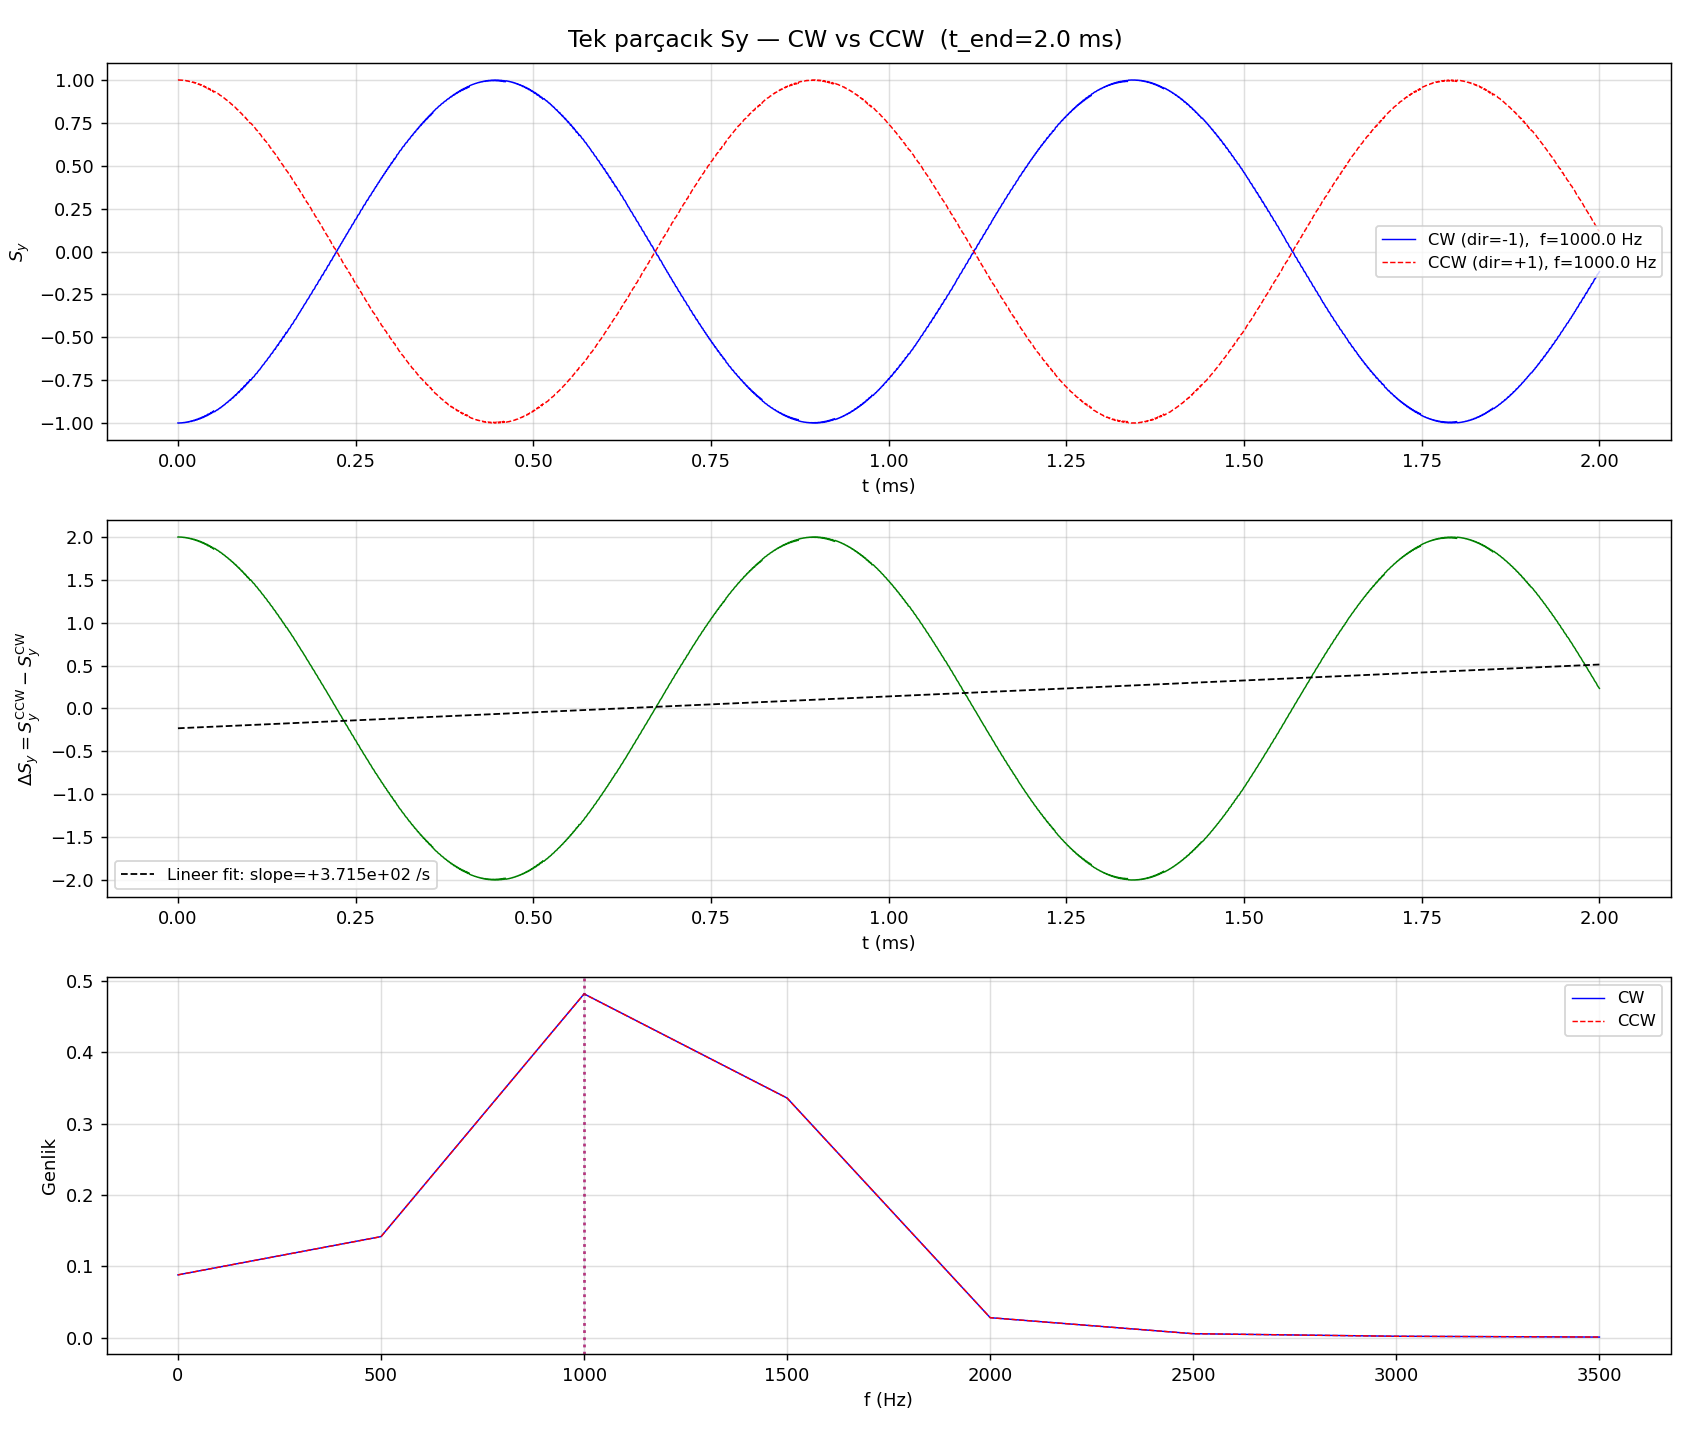
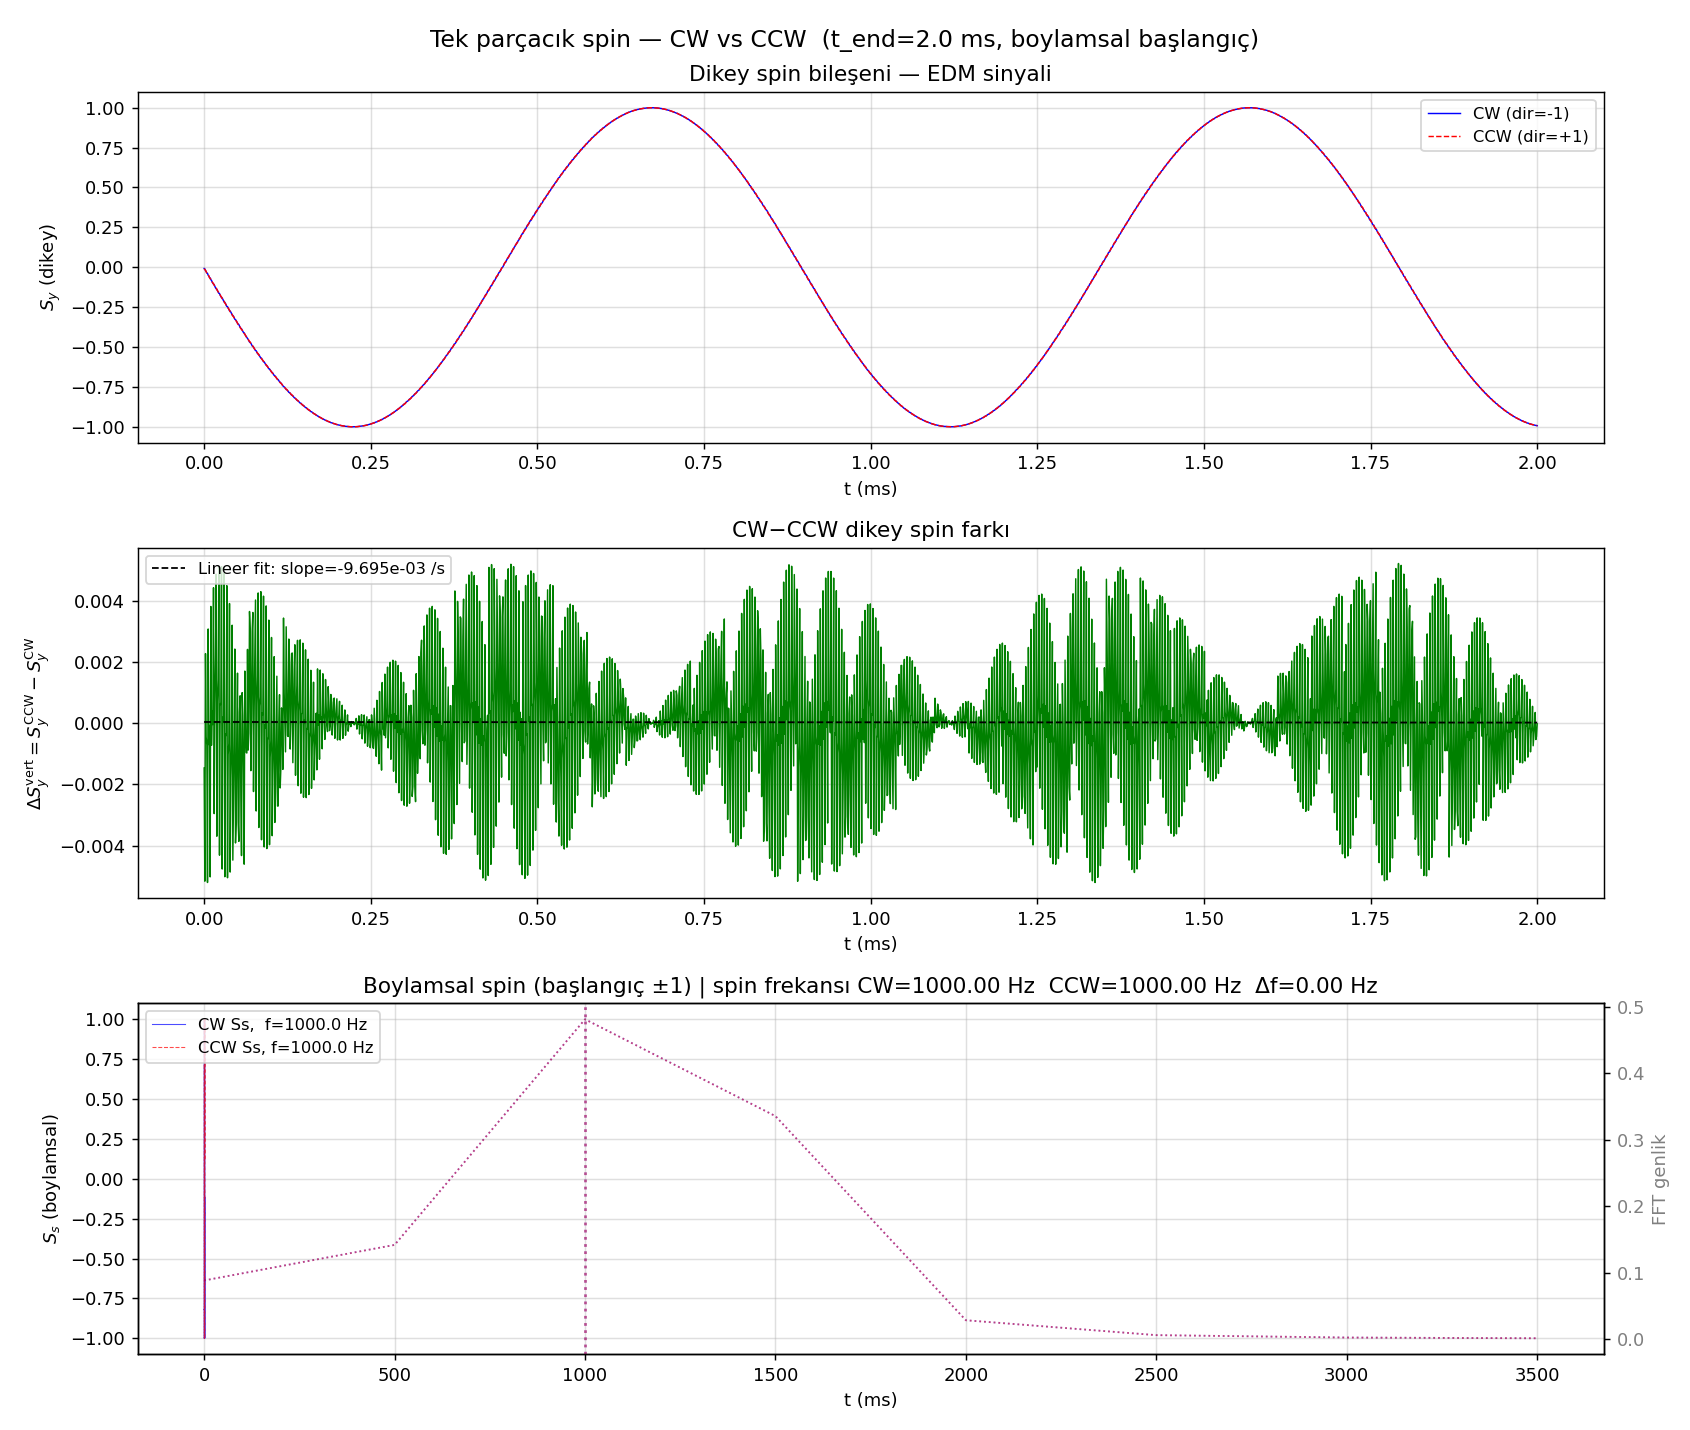
fix(plot): correct spin component convention in plot_sy_cw_ccw.py
hist[:,7] = global Sz = dikey spin (Sy in physics notation) — starts at 0,
grows with EDM/SC. hist[:,8] = global Sy = boylamsal spin (Ss) — starts at ±1.

Previous version plotted hist[:,8] as 'Sy' which showed ±1 initial value;
now correctly plots vertical (dikey) component as Sy and longitudinal as Ss.
FFT is computed on the longitudinal component where precession oscillation
is clearest.

https://claude.ai/code/session_012poC8U34TSgo8S9MK2AAV8

diff --git a/plot_sy_cw_ccw.py b/plot_sy_cw_ccw.py
@@ -101,23 +101,29 @@ hist_cw  = run(-1)
 print("CCW (dir=+1) simüle ediliyor…")
 hist_ccw = run(+1)
 
-# Zaman ekseni (return_steps aralıklı kaydedildi)
-dt_save = t_end / return_steps
-t_ms    = np.linspace(0, t_end * 1e3, len(hist_cw))
+# Zaman ekseni
+t_ms = np.linspace(0, t_end * 1e3, len(hist_cw))
 
-# Sy = hist[:, 8]  (global Y spin bileşeni; integrator.py dönüşüm tablosu)
-sy_cw  = hist_cw[:,  8]
-sy_ccw = hist_ccw[:, 8]
-diff   = sy_ccw - sy_cw
+# Koordinat tablosu (integrator.py convert_global_to_local_matrix):
+#   hist[:,6] = Sx_global  → radyal spin
+#   hist[:,7] = Sz_global  → DİKEY spin  (fizik notasyonunda Sy)
+#   hist[:,8] = Sy_global  → BOYLAMSAL spin (Ss; başlangıçta ±1)
+sy_vert_cw  = hist_cw[:,  7]   # dikey — EDM sinyali burada
+sy_vert_ccw = hist_ccw[:, 7]
+ss_long_cw  = hist_cw[:,  8]   # boylamsal — başlangıçta ±1 (doğru)
+ss_long_ccw = hist_ccw[:, 8]
+diff        = sy_vert_ccw - sy_vert_cw
 
 # Spin normu kontrolü
 norm_cw  = np.sqrt(hist_cw[:,6]**2  + hist_cw[:,7]**2  + hist_cw[:,8]**2)
 norm_ccw = np.sqrt(hist_ccw[:,6]**2 + hist_ccw[:,7]**2 + hist_ccw[:,8]**2)
 print(f"Spin normu  CW : ort={norm_cw.mean():.7f}  std={norm_cw.std():.2e}")
 print(f"Spin normu CCW : ort={norm_ccw.mean():.7f}  std={norm_ccw.std():.2e}")
+print(f"Boylamsal spin başlangıcı  CW={ss_long_cw[0]:+.4f}  CCW={ss_long_ccw[0]:+.4f}  (±1 → boylamsal ok)")
+print(f"Dikey spin başlangıcı      CW={sy_vert_cw[0]:+.4f}  CCW={sy_vert_ccw[0]:+.4f}  (0 → beklenen)")
 
 # ---------------------------------------------------------------------------
-# FFT — spin frekansı
+# FFT — spin frekansı (boylamsal bileşenden — orada osilasyon en belirgin)
 # ---------------------------------------------------------------------------
 def fft_peak(sig, dt, f_lo=200.0, f_hi=3000.0):
     N    = len(sig)
@@ -128,9 +134,9 @@ def fft_peak(sig, dt, f_lo=200.0, f_hi=3000.0):
     idx  = np.argmax(amp[mask])
     return freq[mask][idx], amp, freq
 
-dt_s = t_end / len(sy_cw)
-f_cw,  amp_cw,  freq_cw  = fft_peak(sy_cw,  dt_s)
-f_ccw, amp_ccw, freq_ccw = fft_peak(sy_ccw, dt_s)
+dt_s = t_end / len(ss_long_cw)
+f_cw,  amp_cw,  freq_cw  = fft_peak(ss_long_cw,  dt_s)
+f_ccw, amp_ccw, freq_ccw = fft_peak(ss_long_ccw, dt_s)
 print(f"FFT spin frekansı  CW : {f_cw:.2f} Hz")
 print(f"FFT spin frekansı CCW : {f_ccw:.2f} Hz")
 print(f"Fark: Δf = {abs(f_cw - f_ccw):.2f} Hz")
@@ -142,49 +148,58 @@ fig, axes = plt.subplots(3, 1, figsize=(13, 11))
 
 tag_edm = " | EDM açık" if args.edm else ""
 tag_sc  = " | SC açık"  if args.sc  else ""
-fig.suptitle(f"Tek parçacık Sy — CW vs CCW{tag_edm}{tag_sc}  "
-             f"(t_end={args.t} ms)", fontsize=13)
+fig.suptitle(f"Tek parçacık spin — CW vs CCW{tag_edm}{tag_sc}  "
+             f"(t_end={args.t} ms, boylamsal başlangıç)", fontsize=13)
 
-# — Panel 1: Sy(t) —
-axes[0].plot(t_ms, sy_cw,  'b',   lw=0.8, label=f'CW (dir=-1),  f={f_cw:.1f} Hz')
-axes[0].plot(t_ms, sy_ccw, 'r--', lw=0.8, label=f'CCW (dir=+1), f={f_ccw:.1f} Hz')
-axes[0].set_ylabel('$S_y$')
+# — Panel 1: Sy dikey(t) — EDM sinyali burada büyür
+axes[0].plot(t_ms, sy_vert_cw,  'b',   lw=0.8, label='CW (dir=-1)')
+axes[0].plot(t_ms, sy_vert_ccw, 'r--', lw=0.8, label='CCW (dir=+1)')
+axes[0].set_ylabel('$S_y$ (dikey)')
 axes[0].set_xlabel('t (ms)')
+axes[0].set_title('Dikey spin bileşeni — EDM sinyali')
 axes[0].legend(fontsize=9)
 axes[0].grid(True, alpha=0.4)
 
-# — Panel 2: Fark ΔSy —
+# — Panel 2: Fark ΔSy dikey —
 axes[1].plot(t_ms, diff, 'g', lw=0.8)
-axes[1].set_ylabel(r'$\Delta S_y = S_y^{\rm CCW} - S_y^{\rm CW}$')
+axes[1].set_ylabel(r'$\Delta S_y^{\rm vert} = S_y^{\rm CCW} - S_y^{\rm CW}$')
 axes[1].set_xlabel('t (ms)')
+axes[1].set_title('CW−CCW dikey spin farkı')
 axes[1].grid(True, alpha=0.4)
-
-# lineer fit — drift varsa işaretle
 if len(diff) > 10:
     coeffs = np.polyfit(t_ms, diff, 1)
-    slope_per_s = coeffs[0] * 1e3   # ms → s
+    slope_per_s = coeffs[0] * 1e3
     fit_line = np.polyval(coeffs, t_ms)
     axes[1].plot(t_ms, fit_line, 'k--', lw=1.0,
                  label=f'Lineer fit: slope={slope_per_s:+.3e} /s')
     axes[1].legend(fontsize=9)
 
-# — Panel 3: FFT —
+# — Panel 3: Boylamsal Ss(t) + FFT — başlangıçta ±1, osilasyon frekansı spin frekansı
+ax3a = axes[2]
+ax3b = ax3a.twinx()
+ax3a.plot(t_ms, ss_long_cw,  'b',   lw=0.6, alpha=0.7, label=f'CW Ss,  f={f_cw:.1f} Hz')
+ax3a.plot(t_ms, ss_long_ccw, 'r--', lw=0.6, alpha=0.7, label=f'CCW Ss, f={f_ccw:.1f} Hz')
+ax3a.set_ylabel('$S_s$ (boylamsal)')
+ax3a.set_xlabel('t (ms)')
+ax3a.set_title(f'Boylamsal spin (başlangıç ±1) | spin frekansı CW={f_cw:.2f} Hz  CCW={f_ccw:.2f} Hz  Δf={abs(f_cw-f_ccw):.2f} Hz')
+ax3a.legend(fontsize=9, loc='upper left')
+ax3a.grid(True, alpha=0.4)
+
 f_mask = freq_cw < 4000
-axes[2].plot(freq_cw[f_mask],  amp_cw[f_mask],  'b',   lw=0.8, label='CW')
-axes[2].plot(freq_ccw[f_mask], amp_ccw[f_mask], 'r--', lw=0.8, label='CCW')
-axes[2].axvline(f_cw,  color='b', alpha=0.5, ls=':')
-axes[2].axvline(f_ccw, color='r', alpha=0.5, ls=':')
-axes[2].set_xlabel('f (Hz)')
-axes[2].set_ylabel('Genlik')
-axes[2].legend(fontsize=9)
-axes[2].grid(True, alpha=0.4)
+ax3b.plot(freq_cw[f_mask],  amp_cw[f_mask],  'b:',  lw=1.0, alpha=0.5)
+ax3b.plot(freq_ccw[f_mask], amp_ccw[f_mask], 'r:',  lw=1.0, alpha=0.5)
+ax3b.axvline(f_cw,  color='b', alpha=0.4, ls=':')
+ax3b.axvline(f_ccw, color='r', alpha=0.4, ls=':')
+ax3b.set_ylabel('FFT genlik', color='gray')
+ax3b.tick_params(axis='y', labelcolor='gray')
 
 plt.tight_layout()
 plt.savefig(args.out, dpi=130)
 print(f"\nGrafik kaydedildi: {args.out}")
 
-# Veriyi de kaydet
 np.savez("sy_cw_ccw_data.npz",
-         t_ms=t_ms, sy_cw=sy_cw, sy_ccw=sy_ccw,
+         t_ms=t_ms,
+         sy_vert_cw=sy_vert_cw, sy_vert_ccw=sy_vert_ccw,
+         ss_long_cw=ss_long_cw, ss_long_ccw=ss_long_ccw,
          diff=diff, f_cw=f_cw, f_ccw=f_ccw)
 print("Veri kaydedildi:   sy_cw_ccw_data.npz")
